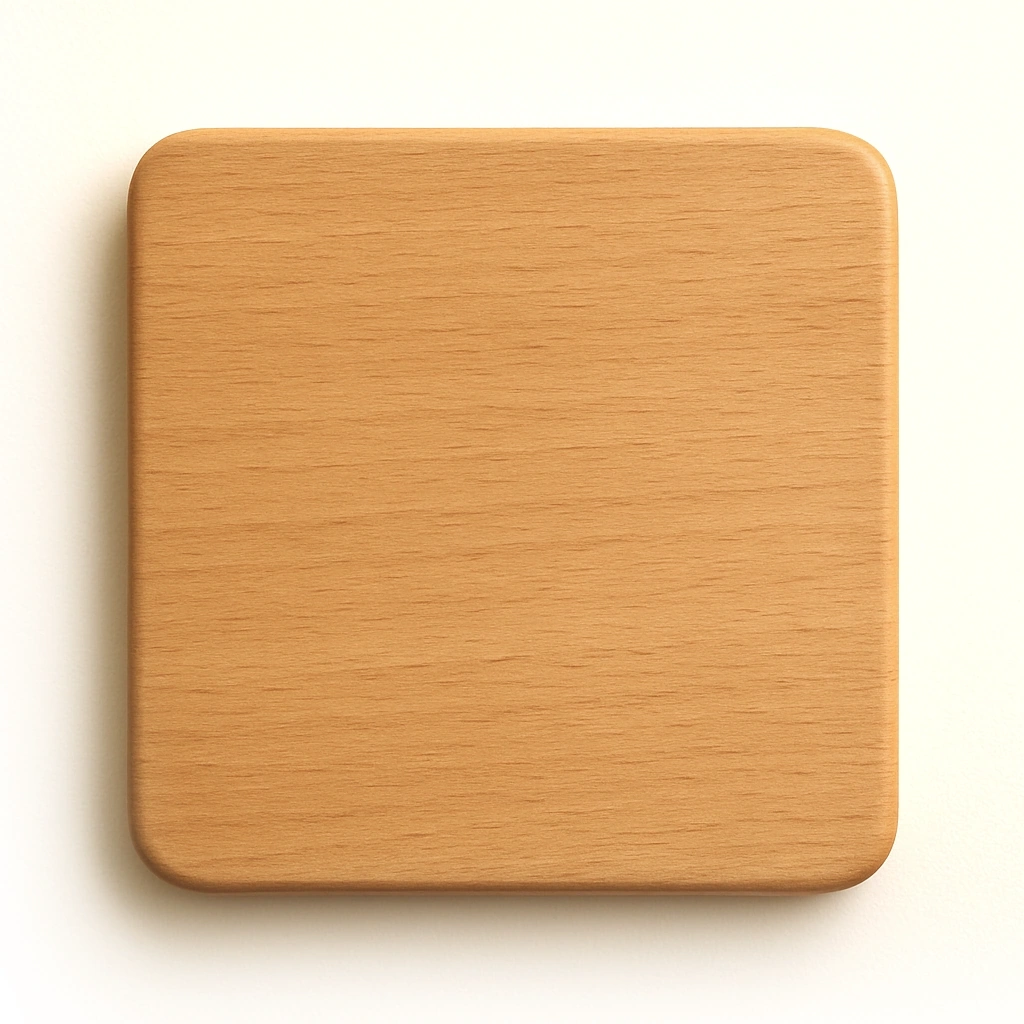
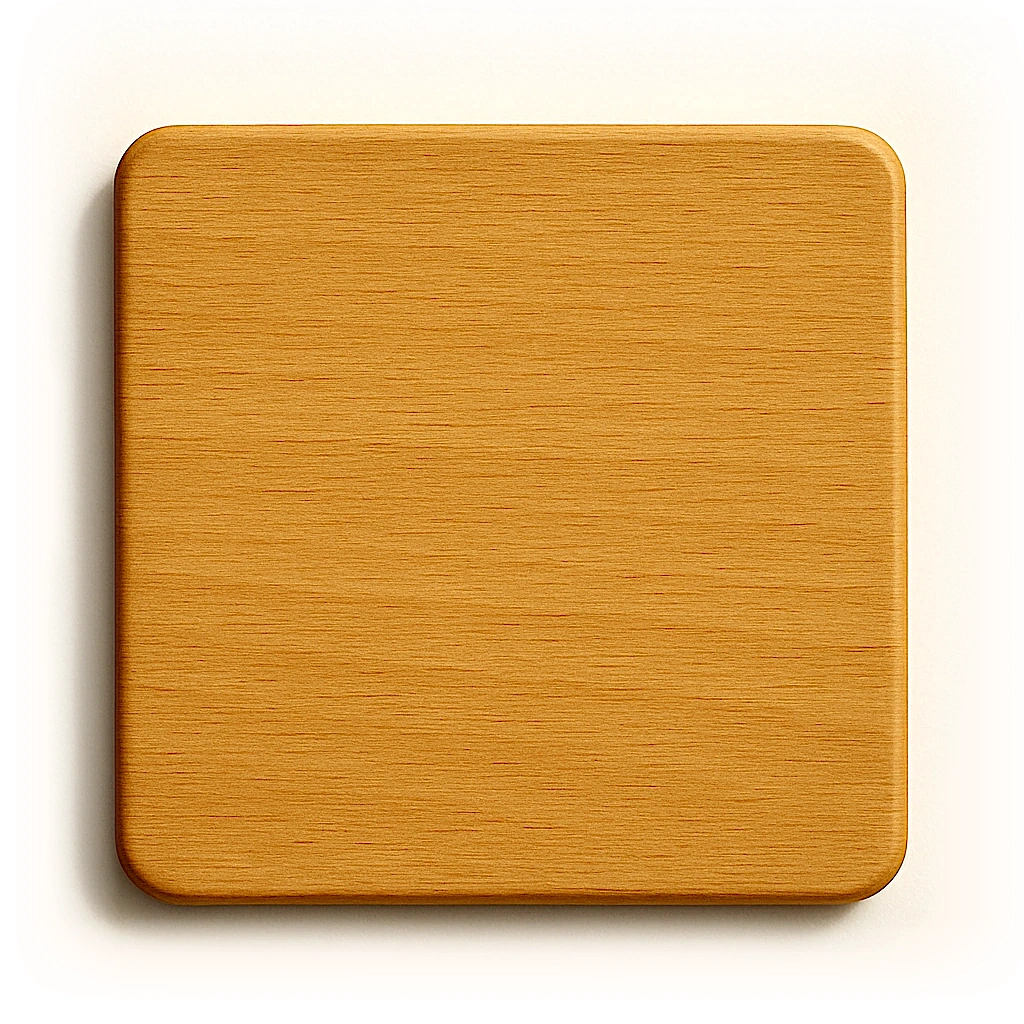
Work on realism

diff --git a/src/Game.ts b/src/Game.ts
@@ -7,6 +7,13 @@ import {
   SolverSessionProgress,
 } from './solver/IdaStarSolver';
 
+type PegLighting = {
+  rotation: number;
+  shadowX: number;
+  shadowY: number;
+  shadowAngle: number;
+};
+
 export class KongmingGame {
   private boardEl: HTMLElement;
   private statusEl: HTMLElement;
@@ -53,6 +60,9 @@ export class KongmingGame {
   private autoplayTimer: number | null = null;
   private autoplayPlanVersion = 0;
   private autoplayKnownPlanVersion = 0;
+  private pegLightTargetX = 0; // set from css
+  private pegLightTargetY = 0;
+  private pegSizePx = 0;
   private holeHitRadius = 0;
   constructor(
     boardEl: HTMLElement,
@@ -115,10 +125,13 @@ export class KongmingGame {
     this.boardEl.innerHTML = '';
     this.holePositions.clear();
     const pegSize = this.calculatePegSize();
+    this.pegSizePx = pegSize;
     this.boardEl.style.setProperty('--peg-size', `${pegSize}px`);
     this.boardEl.style.setProperty('--hole-size', `${pegSize * 0.25}px`);
     this.holeHitRadius = Math.max(pegSize * 0.8, 24);
+    this.updatePegLightTarget();
     this.updatePickablePegs();
+    const targetHoles = this.selected ? this.getSelectableTargets(this.selected) : new Set<string>();
     for (let r = 0; r < this.currentShape.height; r++) {
       for (let c = 0; c < this.currentShape.width; c++) {
         const key = `${r},${c}`;
@@ -133,14 +146,16 @@ export class KongmingGame {
         hole.style.left = `${position.x * 100}%`;
         hole.style.top = `${position.y * 100}%`;
         hole.dataset.pos = key;
-        const orientation = this.calculatePegOrientation(position);
-        hole.style.setProperty('--peg-rotation', `${orientation.rotation.toFixed(2)}deg`);
-        hole.style.setProperty('--peg-shadow-x', `${orientation.shadowX.toFixed(2)}px`);
-        hole.style.setProperty('--peg-shadow-y', `${orientation.shadowY.toFixed(2)}px`);
+        const lighting = this.calculatePegLighting(position);
+        this.applyPegLightingStyles(hole, lighting);
         if (this.pegs.has(key)) {
           const peg = document.createElement('div');
           peg.className = 'peg';
           hole.appendChild(peg);
+          hole.classList.add('has-peg');
+        }
+        if (targetHoles.has(key)) {
+          hole.classList.add('target');
         }
         if (this.helperMode && this.helperBestMove) {
           if (key === this.helperBestMove.from) {
@@ -176,6 +191,11 @@ export class KongmingGame {
       event.preventDefault();
       return;
     }
+    if (this.pegs.has(key) && !this.pickablePegs.has(key)) {
+      this.logInvalidPick(key, 'click');
+      this.pulsePickableHints();
+      return;
+    }
     this.onHoleClick(key);
   }
 
@@ -199,6 +219,18 @@ export class KongmingGame {
     if (!jump) return null;
     if (!this.pegs.has(jump)) return null;
     return { jump };
+  }
+
+  private getSelectableTargets(from: string): Set<string> {
+    const targets = new Set<string>();
+    const moves = this.allowedMoves.get(from);
+    if (!moves) return targets;
+    for (const [to, jump] of moves.entries()) {
+      if (this.pegs.has(to)) continue;
+      if (!this.pegs.has(jump)) continue;
+      targets.add(to);
+    }
+    return targets;
   }
 
   private *validMoves(): Generator<{ from: string; to: string }> {
@@ -237,6 +269,10 @@ export class KongmingGame {
     this.pickupPulseTimeout = window.setTimeout(() => this.clearPickupPulse(), 500);
   }
 
+  private logInvalidPick(key: string, action: 'click' | 'drag'): void {
+    console.log(`Invalid pick attempt (${action}) for peg ${key}.`);
+  }
+
   private clearPickupPulse(): void {
     if (this.pickupPulseTimeout !== null) {
       window.clearTimeout(this.pickupPulseTimeout);
@@ -249,6 +285,7 @@ export class KongmingGame {
     if (!this.pegs.has(key)) return;
     this.stopAutoPlay();
     if (!this.pickablePegs.has(key)) {
+      this.logInvalidPick(key, 'drag');
       this.pulsePickableHints();
       return;
     }
@@ -442,6 +479,23 @@ export class KongmingGame {
     });
   }
 
+  private updatePegLightTarget(): void {
+    const styles = getComputedStyle(document.documentElement);
+    const parseOrDefault = (value: string, fallback: number): number => {
+      const parsed = parseFloat(value);
+      return Number.isFinite(parsed) ? parsed : fallback;
+    };
+    this.pegLightTargetX = parseOrDefault(styles.getPropertyValue('--peg-light-target-x'), 1);
+    this.pegLightTargetY = parseOrDefault(styles.getPropertyValue('--peg-light-target-y'), -1);
+  }
+
+  private getLightPosition(): { x: number; y: number } {
+    return {
+      x: this.pegLightTargetX,
+      y: this.pegLightTargetY
+    };
+  }
+
   private calculatePegSize(): number {
     const rect = this.boardEl.getBoundingClientRect();
     const fallbackWidth = parseFloat(getComputedStyle(this.boardEl).width) || 320;
@@ -496,24 +550,32 @@ export class KongmingGame {
     return count;
   }
 
-  private calculatePegOrientation(position: { x: number; y: number }): { rotation: number; shadowX: number; shadowY: number } {
-    const nx = position.x * 2 - 1;
-    const ny = position.y * 2 - 1;
-    const targetX = 1;
-    const targetY = -1;
-    const dx = targetX - nx;
-    const dy = targetY - ny;
+  private calculatePegLighting(pos: { x: number; y: number }): PegLighting {
+    const light = this.getLightPosition();
+    const dx = pos.x - light.x;
+    const dy = pos.y - light.y;
     const distance = Math.hypot(dx, dy) || 1;
-    const ndx = dx / distance;
-    const ndy = dy / distance;
-    const directionAngle = Math.atan2(dy, dx);
-    const axisAngle = Math.atan2(-1, 1);
-    const lightDistanceFactor = 3;
-    const rotation = ((directionAngle - axisAngle) * (180 / Math.PI)) / lightDistanceFactor;
-    const shadowDistance = 10 / lightDistanceFactor;
-    const shadowX = -ndx * shadowDistance;
-    const shadowY = -ndy * shadowDistance;
-    return { rotation, shadowX, shadowY };
+    const unitX = dx / distance;
+    const unitY = dy / distance;
+    let rotation = (Math.atan2(unitY, unitX) * 180) / Math.PI;
+    rotation = (rotation + 360) % 360;
+    rotation = (rotation + 180) % 360;
+    const shadowLength = Math.max(6, (this.pegSizePx || 40) * 0.18);
+    const shadowX = unitX * shadowLength;
+    const shadowY = unitY * shadowLength;
+    return {
+      rotation,
+      shadowX,
+      shadowY,
+      shadowAngle: rotation,
+    };
+  }
+
+  private applyPegLightingStyles(target: HTMLElement, lighting: PegLighting): void {
+    target.style.setProperty('--peg-rotation', `${lighting.rotation.toFixed(2)}deg`);
+    target.style.setProperty('--peg-shadow-x', `${lighting.shadowX.toFixed(2)}px`);
+    target.style.setProperty('--peg-shadow-y', `${lighting.shadowY.toFixed(2)}px`);
+    target.style.setProperty('--peg-shadow-angle', `${lighting.shadowAngle.toFixed(2)}deg`);
   }
 
   private getBoardRelativePosition(clientX: number, clientY: number): { x: number; y: number } | null {
@@ -527,10 +589,8 @@ export class KongmingGame {
 
   private applyGhostOrientation(position: { x: number; y: number }): void {
     if (!this.ghostPeg) return;
-    const orientation = this.calculatePegOrientation(position);
-    this.ghostPeg.style.setProperty('--peg-rotation', `${orientation.rotation.toFixed(2)}deg`);
-    this.ghostPeg.style.setProperty('--peg-shadow-x', `${orientation.shadowX.toFixed(2)}px`);
-    this.ghostPeg.style.setProperty('--peg-shadow-y', `${orientation.shadowY.toFixed(2)}px`);
+    const lighting = this.calculatePegLighting(position);
+    this.applyPegLightingStyles(this.ghostPeg, lighting);
   }
 
   private snapshotPegs(): string[] {

diff --git a/index.html b/index.html
@@ -8,6 +8,8 @@
 			:root {
 				color-scheme: light dark;
 				font-family: system-ui, sans-serif;
+				--peg-light-target-x: 10;
+				--peg-light-target-y: -4;
 			}
 			body {
 				margin: 0;
@@ -17,7 +19,7 @@
 				align-items: center;
 				justify-content: center;
 				gap: 1rem;
-				background: #ffffee;
+				background: #ffffff;
 				color: var(--text-color);
 				transition: background-color 0.4s ease, color 0.4s ease, background 0.4s ease;
 			}
@@ -196,7 +198,7 @@
 			.board-wrapper {
 				position: relative;
 				padding: 26px;
-				border-radius: 8px;
+				border-radius: 22px;
 				border: none;
 				box-shadow: none;
 				overflow: visible;
@@ -241,7 +243,7 @@
 				position: absolute;
 				inset: -6px;
 				border: 4px solid var(--solved-border);
-				border-radius: 14px;
+				border-radius: 22px;
 				z-index: 2;
 				pointer-events: none;
 				opacity: 0;
@@ -274,11 +276,11 @@
 			}
 			@keyframes pickup-glow {
 				from {
-					transform: scale(1);
+					transform: scale(1.1);
 					opacity: 1;
 				}
 				to {
-					transform: scale(1.3);
+					transform: scale(1.9);
 					opacity: 0;
 				}
 			}
@@ -287,10 +289,25 @@
 				width: clamp(260px, 34vw, 420px);
 				aspect-ratio: 1 / 1;
 				margin: 0 auto;
-				border-radius: 4px;
+				border-radius: 18px;
 				overflow: hidden;
 				background: transparent;
 				z-index: 1;
+			}
+			body:not(.theme-light):not(.theme-dark) #board::after {
+				content: '';
+				position: absolute;
+				inset: -6px;
+				border-radius: inherit;
+				pointer-events: none;
+				background: linear-gradient(
+				230deg,
+				rgba(255, 255, 255, 0.22),
+				rgba(0, 0, 0, 0.0)
+				);
+				mix-blend-mode: screen;
+				opacity: 0.85;
+				z-index: 2;
 			}
 			.board-wrapper.solver-busy #board {
 				pointer-events: none;
@@ -302,7 +319,7 @@
 			}
 			body.theme-dark #board {
 				background-image: none;
-				box-shadow: inset 0 4px 16px rgba(0, 0, 0, 0.4), 0 12px 18px rgba(0, 0, 0, 0.45);
+				box-shadow: inset 0 4px 16px rgba(0, 0, 0, 1.0), 0 12px 18px rgba(0, 0, 0, 1.0);
 			}
 			.solver-overlay {
 				position: absolute;
@@ -333,14 +350,47 @@
 				touch-action: none;
 				user-select: none;
 				transform: translate(-50%, -50%);
+				overflow: visible;
+				z-index: 1;
 			}
 			.hole.pickup-pulse::after {
 				content: '';
 				position: absolute;
-				inset: -6px;
+				inset: -12px;
 				border-radius: 50%;
-				border: 2px solid var(--pickup-pulse-color);
-				animation: pickup-glow 0.5s ease-out;
+				border: 3px solid var(--pickup-pulse-color);
+				animation: pickup-glow 0.45s ease-out forwards;
+				animation-iteration-count: 1;
+				z-index: 2;
+				pointer-events: none;
+			}
+			body:not(.theme-light):not(.theme-dark) .hole.has-peg::before {
+				content: '';
+				position: absolute;
+				left: 50%;
+				top: 50%;
+				width: 38px;
+				height: 38px;
+				transform: translate(-75%, -9%) rotate(var(--peg-shadow-angle, 0deg)) scaleX(1.45) scaleY(0.7);
+				border-radius: 50%;
+				background: radial-gradient(circle, rgba(40.0, 0, 40.0, 0.2) 25%, rgba(40.0, 0, 40.0, 0.2) 55%, rgba(0, 0, 0, 0) 80%);
+				pointer-events: none;
+				z-index: -1;
+				mix-blend-mode: saturation;
+			}
+			body.theme-light .hole::before,
+			body.theme-dark .hole::before {
+				opacity: 0;
+			}
+			.hole.target {
+				box-shadow: 0 0 0 5px rgba(255, 255, 255, 0.35);
+			}
+			.hole.target::after {
+				content: '';
+				position: absolute;
+				inset: -10px;
+				border-radius: 50%;
+				border: 2px dashed rgba(255, 255, 255, 0.6);
 				pointer-events: none;
 			}
 			.hole.drag-over {
@@ -384,36 +434,41 @@
 				box-shadow:
 				inset 0 3px 6px rgba(255, 255, 255, 0.75),
 				inset 0 -2px 4px rgba(0, 0, 0, 0.2),
-				0 4px 10px rgba(0, 0, 0, 0.25);
+				0 4px 10px rgba(0, 0, 0, 0.4);
 				transition: transform 0.2s ease;
 				background-color: transparent;
 				transform: rotate(var(--peg-rotation, 0deg));
 				z-index: 1;
 			}
-			.peg::after {
-				display: none;
+			.peg::before {
 				content: '';
 				position: absolute;
-				inset: 15%;
+				inset: -12px;
 				border-radius: 50%;
-				background: radial-gradient(circle, rgba(0, 0, 0, 0.45), rgba(0, 0, 0, 0) 60%);
-				transform: translate(var(--peg-shadow-x, 0px), var(--peg-shadow-y, 0px)) scale(1.05);
-				filter: blur(0.3px);
-				opacity: 0;
-				z-index: -1;
+				filter: blur(16px);
+				mix-blend-mode: screen;
+				opacity: 0.55;
 				pointer-events: none;
+				z-index: -2;
+				transition: opacity 0.25s ease;
 			}
-			body:not(.theme-light):not(.theme-dark) .peg::after {
-				opacity: 1;
+			.peg:hover::before,
+			.hole.dragging .peg::before {
+				opacity: 0.8;
 			}
 			.peg.ghost {
 				position: fixed;
 				z-index: 999;
 				pointer-events: none;
+				transition: none;
 				transform: rotate(var(--peg-rotation, 0deg)) translate(-50%, -50%);
+				transition: none;
 				box-shadow:
 				inset 0 4px 8px rgba(255, 255, 255, 0.9),
 				0 6px 12px rgba(0, 0, 0, 0.6);
+			}
+			.peg.ghost::before {
+				opacity: 0 !important;
 			}
 			.peg.ghost::after {
 				opacity: 0;
@@ -426,7 +481,7 @@
 				0 2px 5px rgba(0, 0, 0, 0.3);
 			}
 			body.theme-dark .peg {
-				background: radial-gradient(circle at 30% 30%, rgba(255, 255, 255, 0.9), rgba(200, 210, 220, 0.4));
+				background: radial-gradient(circle at 30% 30%, rgba(255, 255, 255, 1.0), rgba(160, 160, 160, 1.0));
 				box-shadow:
 				inset 0 3px 6px rgba(255, 255, 255, 0.6),
 				inset 0 -2px 4px rgba(15, 18, 25, 0.6),
